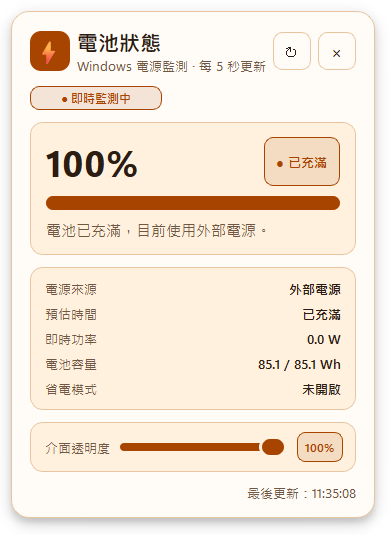
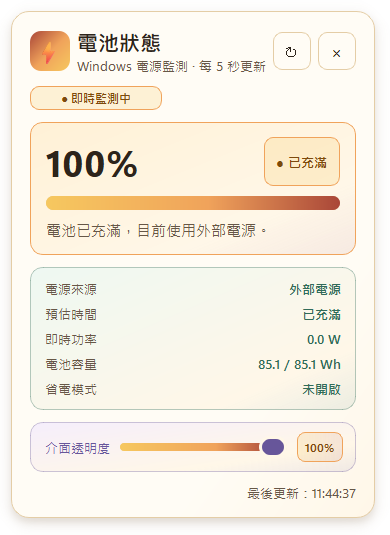
style: refine battery widget art palette

diff --git a/src/battery_usage_widget/theme.py b/src/battery_usage_widget/theme.py
@@ -10,37 +10,61 @@ from PySide6.QtGui import QColor, QGuiApplication
 class ThemeTokens:
     surface: str
     surface_alt: str
+    battery_surface: str
+    details_surface: str
+    controls_surface: str
     on_surface: str
     on_surface_muted: str
     outline: str
     charging: str
     normal: str
+    normal_fill_start: str
+    normal_fill_end: str
+    decorative_secondary: str
+    decorative_tertiary: str
+    decorative_quaternary: str
     warning: str
     critical: str
     focus: str
 
 
 LIGHT_TOKENS = ThemeTokens(
-    surface="#FFFBF6",
-    surface_alt="#FFF1DE",
-    on_surface="#2B1D12",
-    on_surface_muted="#6F5743",
-    outline="#E7C5A0",
-    charging="#0B6FCC",
-    normal="#A74400",
-    warning="#806000",
-    critical="#B42318",
-    focus="#0067C0",
+    surface="#FFFCF5",
+    surface_alt="#FFF7E8",
+    battery_surface="#FFF1D6",
+    details_surface="#EEF8F2",
+    controls_surface="#F5EEFC",
+    on_surface="#2D241B",
+    on_surface_muted="#665747",
+    outline="#E4CDA6",
+    charging="#236BAA",
+    normal="#7D4A0C",
+    normal_fill_start="#F6C85F",
+    normal_fill_end="#F0A35B",
+    decorative_secondary="#A94638",
+    decorative_tertiary="#316B59",
+    decorative_quaternary="#67569A",
+    warning="#795600",
+    critical="#A8322A",
+    focus="#245F9E",
 )
 
 DARK_TOKENS = ThemeTokens(
-    surface="#2B2119",
-    surface_alt="#3B2C20",
-    on_surface="#FFF7EF",
-    on_surface_muted="#D7C0AA",
-    outline="#72553E",
-    charging="#70B7FF",
-    normal="#FFB15C",
+    surface="#28241F",
+    surface_alt="#373128",
+    battery_surface="#3A3023",
+    details_surface="#2C3731",
+    controls_surface="#342F3B",
+    on_surface="#FFF9EF",
+    on_surface_muted="#D8CBB8",
+    outline="#6E604C",
+    charging="#7BBFFF",
+    normal="#FFD48A",
+    normal_fill_start="#E8B84F",
+    normal_fill_end="#E99B55",
+    decorative_secondary="#FF9D86",
+    decorative_tertiary="#8BD5BC",
+    decorative_quaternary="#C8BAF6",
     warning="#F2C14E",
     critical="#FF8B84",
     focus="#7AB8FF",
@@ -58,7 +82,12 @@ def _with_alpha(color: str, alpha: int) -> str:
 
 def build_stylesheet(dark: bool) -> str:
     token = DARK_TOKENS if dark else LIGHT_TOKENS
-    normal_soft = _with_alpha(token.normal, 32)
+    normal_soft = _with_alpha(token.normal_fill_start, 54)
+    secondary_soft = _with_alpha(token.decorative_secondary, 26)
+    tertiary_soft = _with_alpha(token.decorative_tertiary, 24)
+    quaternary_soft = _with_alpha(token.decorative_quaternary, 26)
+    tertiary_border = _with_alpha(token.decorative_tertiary, 92)
+    quaternary_border = _with_alpha(token.decorative_quaternary, 86)
     charging_soft = _with_alpha(token.charging, 32)
     warning_soft = _with_alpha(token.warning, 30)
     critical_soft = _with_alpha(token.critical, 30)
@@ -69,14 +98,23 @@ def build_stylesheet(dark: bool) -> str:
             font-size: 12pt;
         }}
         QFrame#Card {{
-            background: {token.surface};
+            background: qlineargradient(
+                x1: 0, y1: 0, x2: 1, y2: 1,
+                stop: 0 {token.surface}, stop: 0.72 {token.surface},
+                stop: 1 {token.surface_alt}
+            );
             border: 1px solid {token.outline};
             border-radius: 18px;
         }}
         QFrame#Header {{ background: transparent; border: none; }}
         QLabel#BrandMark {{
             color: {token.surface};
-            background: {token.normal};
+            background: qlineargradient(
+                x1: 0, y1: 0, x2: 1, y2: 1,
+                stop: 0 {token.decorative_secondary},
+                stop: 0.52 {token.normal_fill_end},
+                stop: 1 {token.normal_fill_start}
+            );
             border: none;
             border-radius: 11px;
             font-size: 17pt;
@@ -90,7 +128,7 @@ def build_stylesheet(dark: bool) -> str:
         QLabel#StatusLabel {{
             color: {token.normal};
             background: {normal_soft};
-            border: 1px solid {token.normal};
+            border: 1px solid {token.normal_fill_end};
             border-radius: 9px;
             padding: 3px 9px;
             font-size: 9pt;
@@ -103,9 +141,34 @@ def build_stylesheet(dark: bool) -> str:
             border-radius: 10px;
             padding: 9px;
         }}
-        QFrame#BatteryCard, QFrame#DetailsCard, QFrame#TransparencyCard {{
-            background: {token.surface_alt};
-            border: 1px solid {token.outline};
+        QFrame#BatteryCard {{
+            background: qlineargradient(
+                x1: 0, y1: 0, x2: 1, y2: 1,
+                stop: 0 {token.battery_surface},
+                stop: 0.72 {token.surface_alt},
+                stop: 1 {secondary_soft}
+            );
+            border: 1px solid {token.normal_fill_end};
+            border-radius: 13px;
+        }}
+        QFrame#DetailsCard {{
+            background: qlineargradient(
+                x1: 0, y1: 0, x2: 1, y2: 1,
+                stop: 0 {token.details_surface},
+                stop: 0.78 {token.surface_alt},
+                stop: 1 {tertiary_soft}
+            );
+            border: 1px solid {tertiary_border};
+            border-radius: 13px;
+        }}
+        QFrame#TransparencyCard {{
+            background: qlineargradient(
+                x1: 0, y1: 0, x2: 1, y2: 1,
+                stop: 0 {token.controls_surface},
+                stop: 0.72 {token.surface_alt},
+                stop: 1 {quaternary_soft}
+            );
+            border: 1px solid {quaternary_border};
             border-radius: 13px;
         }}
         QLabel#BatteryPercent {{ font-size: 28pt; font-weight: 700; }}
@@ -124,7 +187,7 @@ def build_stylesheet(dark: bool) -> str:
         QLabel#StateBadge[state="normal"] {{
             color: {token.normal};
             background: {normal_soft};
-            border-color: {token.normal};
+            border-color: {token.normal_fill_end};
         }}
         QLabel#StateBadge[state="warning"] {{
             color: {token.warning};
@@ -139,15 +202,22 @@ def build_stylesheet(dark: bool) -> str:
         QLabel#StateBadge[state="neutral"] {{ color: {token.on_surface_muted}; }}
         QLabel#Summary {{ color: {token.on_surface_muted}; font-size: 11pt; }}
         QLabel#DetailLabel {{ color: {token.on_surface_muted}; font-size: 10pt; }}
-        QLabel#DetailValue {{ font-size: 10pt; font-weight: 600; }}
+        QLabel#DetailValue {{
+            color: {token.decorative_tertiary};
+            font-size: 10pt;
+            font-weight: 600;
+        }}
         QLabel#TransparencyLabel {{
-            color: {token.on_surface_muted};
+            color: {token.decorative_quaternary};
             font-size: 10pt;
         }}
         QLabel#TransparencyValue {{
             color: {token.normal};
-            background: {normal_soft};
-            border: 1px solid {token.normal};
+            background: qlineargradient(
+                x1: 0, y1: 0, x2: 1, y2: 0,
+                stop: 0 {normal_soft}, stop: 1 {secondary_soft}
+            );
+            border: 1px solid {token.normal_fill_end};
             border-radius: 8px;
             padding: 3px 6px;
             font-size: 9pt;
@@ -160,7 +230,12 @@ def build_stylesheet(dark: bool) -> str:
         }}
         QSlider::sub-page:horizontal {{
             border-radius: 4px;
-            background: {token.normal};
+            background: qlineargradient(
+                x1: 0, y1: 0, x2: 1, y2: 0,
+                stop: 0 {token.normal_fill_start},
+                stop: 0.62 {token.normal_fill_end},
+                stop: 1 {token.decorative_secondary}
+            );
         }}
         QSlider::add-page:horizontal {{
             border-radius: 4px;
@@ -171,7 +246,7 @@ def build_stylesheet(dark: bool) -> str:
             margin: -7px 0;
             border: 3px solid {token.surface_alt};
             border-radius: 11px;
-            background: {token.normal};
+            background: {token.decorative_quaternary};
         }}
         QSlider:focus {{
             border: 2px solid {token.focus};
@@ -186,7 +261,12 @@ def build_stylesheet(dark: bool) -> str:
         }}
         QProgressBar#BatteryProgress::chunk {{
             border-radius: 7px;
-            background: {token.normal};
+            background: qlineargradient(
+                x1: 0, y1: 0, x2: 1, y2: 0,
+                stop: 0 {token.normal_fill_start},
+                stop: 0.55 {token.normal_fill_end},
+                stop: 1 {token.decorative_secondary}
+            );
         }}
         QProgressBar#BatteryProgress[state="charging"]::chunk {{
             background: {token.charging};
@@ -205,7 +285,10 @@ def build_stylesheet(dark: bool) -> str:
             background: {token.surface_alt};
             color: {token.on_surface};
         }}
-        QPushButton:hover, QToolButton:hover {{ border-color: {token.charging}; }}
+        QPushButton:hover, QToolButton:hover {{
+            background: {quaternary_soft};
+            border-color: {token.decorative_quaternary};
+        }}
         QPushButton:focus, QToolButton:focus {{ border: 2px solid {token.focus}; }}
         QToolButton#HeaderButton {{
             min-width: 36px;

diff --git a/tests/test_battery_widget.py b/tests/test_battery_widget.py
@@ -53,16 +53,23 @@ def test_battery_formatters_and_presentation() -> None:
     assert presentation_for(make_snapshot(percent=10)) == ("critical", "⚠ 電量緊迫")
 
 
-def test_battery_theme_uses_orange_for_normal_displays() -> None:
+def test_battery_theme_uses_lively_soft_orange_palette() -> None:
     light_stylesheet = build_stylesheet(False)
     dark_stylesheet = build_stylesheet(True)
 
-    assert LIGHT_TOKENS.normal == "#A74400"
-    assert LIGHT_TOKENS.surface_alt == "#FFF1DE"
-    assert DARK_TOKENS.normal == "#FFB15C"
-    assert DARK_TOKENS.surface_alt == "#3B2C20"
-    assert "#147A4B" not in light_stylesheet
-    assert "#5FD49A" not in dark_stylesheet
+    assert LIGHT_TOKENS.battery_surface == "#FFF1D6"
+    assert LIGHT_TOKENS.normal_fill_start == "#F6C85F"
+    assert LIGHT_TOKENS.normal_fill_end == "#F0A35B"
+    assert LIGHT_TOKENS.details_surface == "#EEF8F2"
+    assert LIGHT_TOKENS.controls_surface == "#F5EEFC"
+    assert LIGHT_TOKENS.decorative_tertiary == "#316B59"
+    assert LIGHT_TOKENS.decorative_quaternary == "#67569A"
+    assert DARK_TOKENS.battery_surface == "#3A3023"
+    assert DARK_TOKENS.normal_fill_start == "#E8B84F"
+    assert "qlineargradient" in light_stylesheet
+    assert "qlineargradient" in dark_stylesheet
+    assert "#A74400" not in light_stylesheet
+    assert "#FFB15C" not in dark_stylesheet
 
 
 def test_widget_is_topmost_and_renders_real_battery_fields(qtbot, tmp_path) -> None:

diff --git a/src/battery_usage_widget/widget.py b/src/battery_usage_widget/widget.py
@@ -171,7 +171,7 @@ class FloatingBatteryWidget(QWidget):
         shadow = QGraphicsDropShadowEffect(self.card)
         shadow.setBlurRadius(24)
         shadow.setOffset(0, 5)
-        shadow.setColor(QColor(0, 0, 0, 72))
+        shadow.setColor(QColor(105, 76, 38, 58))
         self.card.setGraphicsEffect(shadow)
         outer.addWidget(self.card)
 
